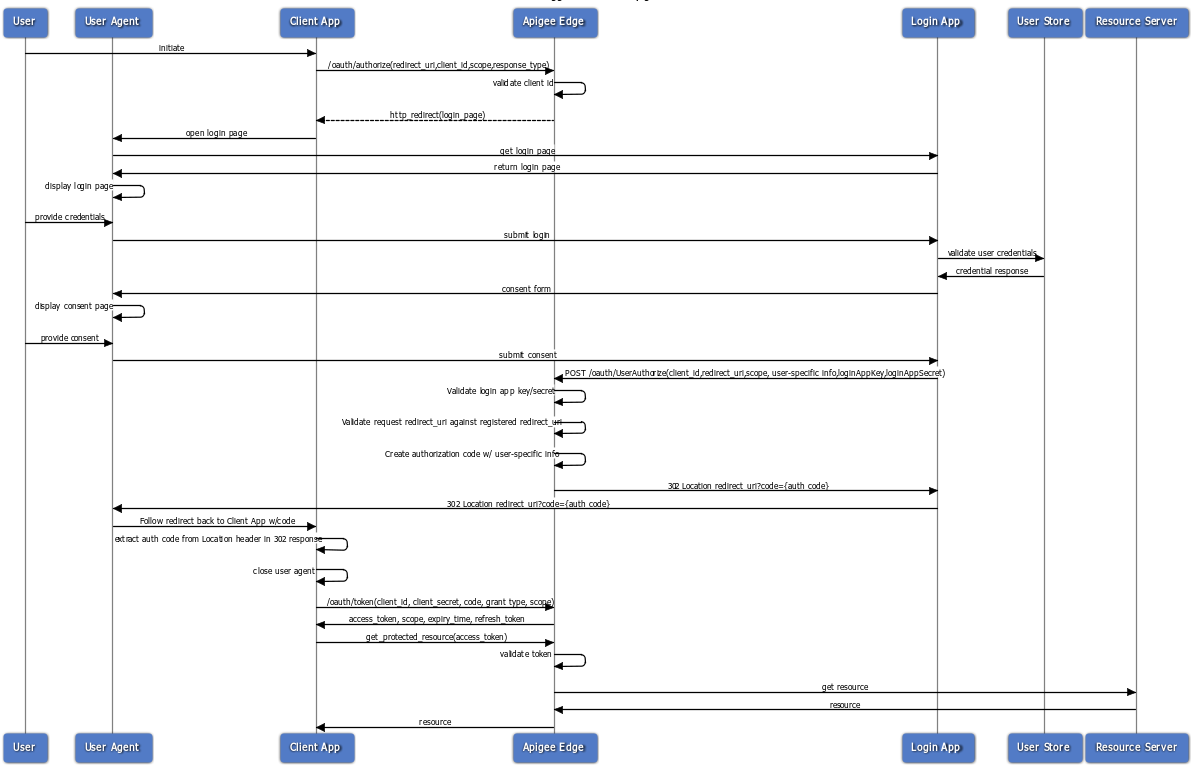
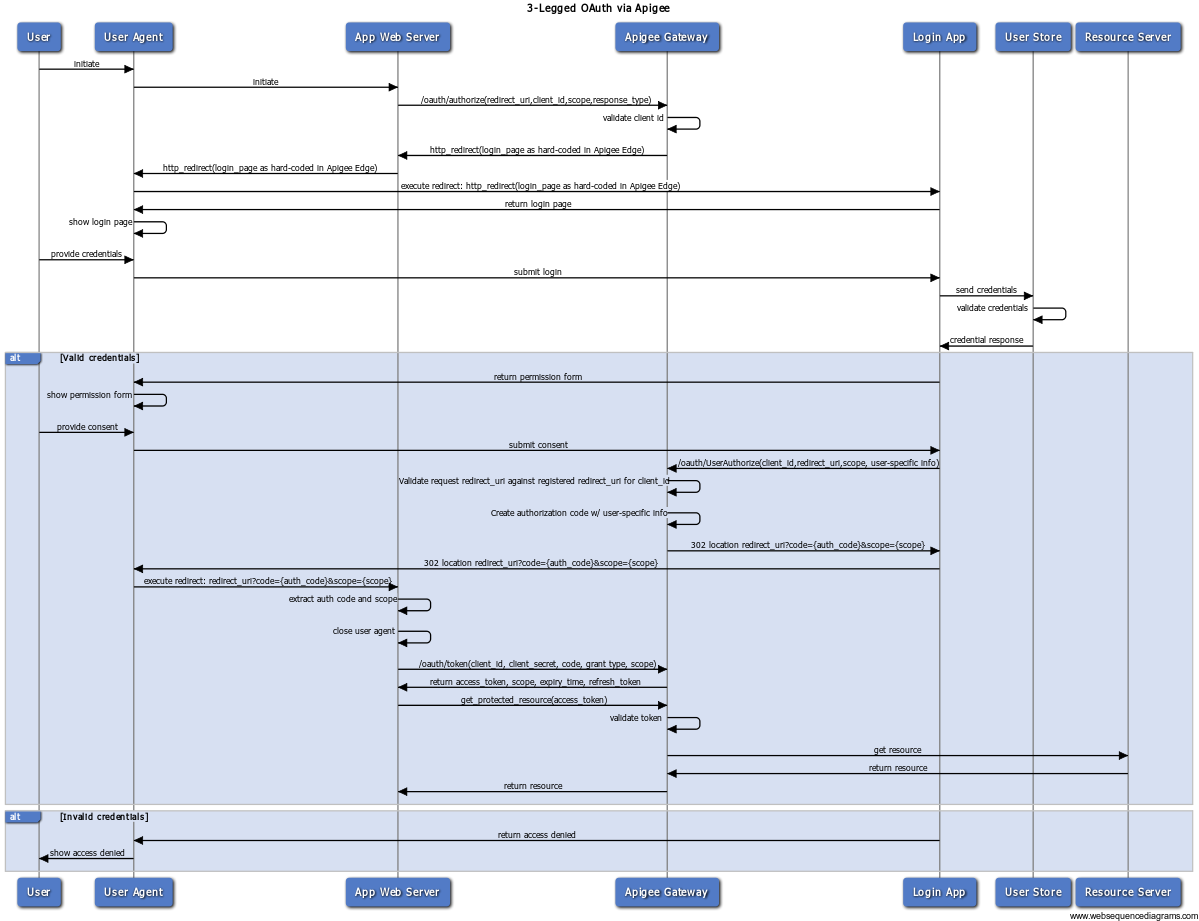
remove login-app credential check.  Add in WSD text. Update flow diagram based off of WSD.

diff --git a/sample-proxies/oauth-advanced/login-app/apiproxy/resources/node/config/config.js b/sample-proxies/oauth-advanced/login-app/apiproxy/resources/node/config/config.js
@@ -3,7 +3,7 @@
 
 /*
 ## Cloud users: Leave the default value for $api_domain.
-## On-prem customers: 
+## On-prem customers:
 ## - Change the $url to your Apigee management server.
 ## - Change $domain to the base domain for your own Apigee API calls.
 */
@@ -11,7 +11,5 @@
 exports.envInfo = {
   org: 'Enter your org name',
   env: 'Enter your environment',
-  domain: 'apigee.net',
-  appKey: 'Enter the client ID from login-app',
-  appSecret: 'Enter the client secret from login-app'
+  domain: 'apigee.net'
 };

diff --git a/sample-proxies/oauth-advanced/login-app/apiproxy/resources/node/routes/consent.js b/sample-proxies/oauth-advanced/login-app/apiproxy/resources/node/routes/consent.js
@@ -57,7 +57,7 @@ exports.post = function(req, res){
 		path: '/oauth2/userAuthorize',
 		method: 'POST',
 		rejectUnauthorized: false,
-		headers: {'Content-Length': body.length, 'Content-Type': 'application/json', 'appKey': config.envInfo.appKey, 'appSecret': config.envInfo.appSecret}
+		headers: {'Content-Length': body.length, 'Content-Type': 'application/json'}
 	};
 
 	if (decision == 'yes') {

diff --git a/sample-proxies/oauth-advanced/README.md b/sample-proxies/oauth-advanced/README.md
@@ -19,14 +19,14 @@ The authorization code grant type requires a step where the end user logs in to 
 
 Here's a flow diagram outlining the steps of this flow:
 
-**TIP:** Save the graphic to your system and open it locally to see the full size image.
+**TIP:** Save the graphic to your system and open it locally to see the full size image.  You can also use the text provided in misc/webSequenceDiagram.txt and plug into `https://www.websequencediagrams.com`.
 
 ![alt text](../images/oauth-advanced-sequence-diagram.png)
 
 1. User initiates the flow by clicking a button in a web page.
 2. The user's browser is redirected to a login page. This login page is not under the control of the client app. The client app does not participate in the login interaction, and the client app never sees the user's username or password.
 3. If login is successful, the user is directed to a consent page. The consent page allows the user to specify scopes (what the client app is authorized to do with on behalf of the user).
-4. After consent is given, the login app communicates with the authorization server. If everything is okay, the authorization server generates an authorization code and sends it back to the client app (via a previously specified redirect URI).
+4. After consent is given, the login app communicates with the authorization server. If redirect_URI matches the redirect_URI in Apigee Edge for that client_id, the authorization server generates an authorization code and sends it back to the client app (via a previously specified redirect URI).
 5. The client app now has an authorization code and uses it to ask the authorization server for an access token.
 6. Upon receiving an access token, the client app is able to access the protected APIs on the resource server by including the access token with each call.
 
@@ -200,8 +200,6 @@ You must perform this step before you configure the login-app project.
 1. CD to `oauth-advanced/provisioning`
 2. Execute: `./provision-login-app.sh`
 
-The provisioning script creates the required entities on Apigee Edge and returns two keys: **Consumer key** and **Consumer secret** in your terminal window. You'll need these values when you configure the login-app below.
-
 Tip: You can log in to the Apigee Edge UI and see that the developer, product, and app entities were created.
 
 **Configure the project:**
@@ -216,9 +214,7 @@ Tip: You can log in to the Apigee Edge UI and see that the developer, product, a
           exports.envInfo = {
              org: 'Your org name on Edge',
              env: 'Your environment on Edge (test or prod)',
-             domain: 'apigee.net',
-             appKey: 'The app key returned when you provisioned the login-app',
-             appSecret: 'The app secret returned when you provisioned the login-app'
+             domain: 'apigee.net'
           };
       ```
 
